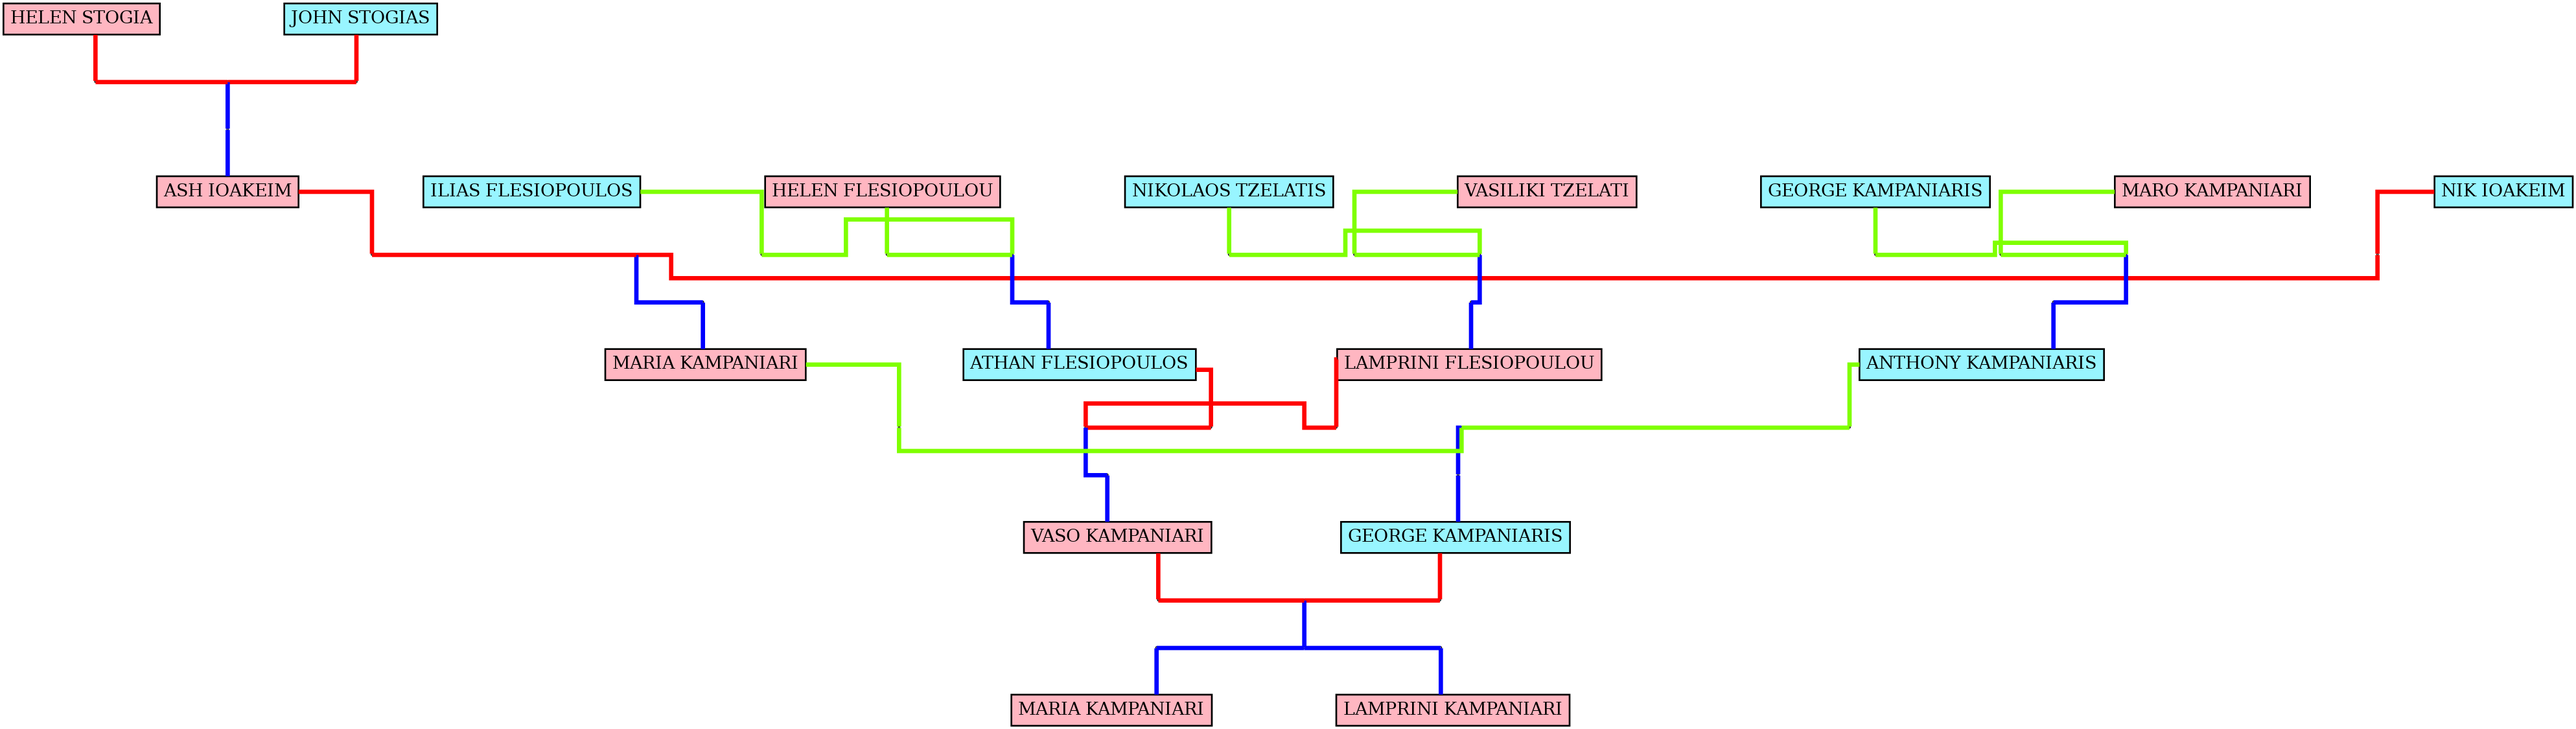
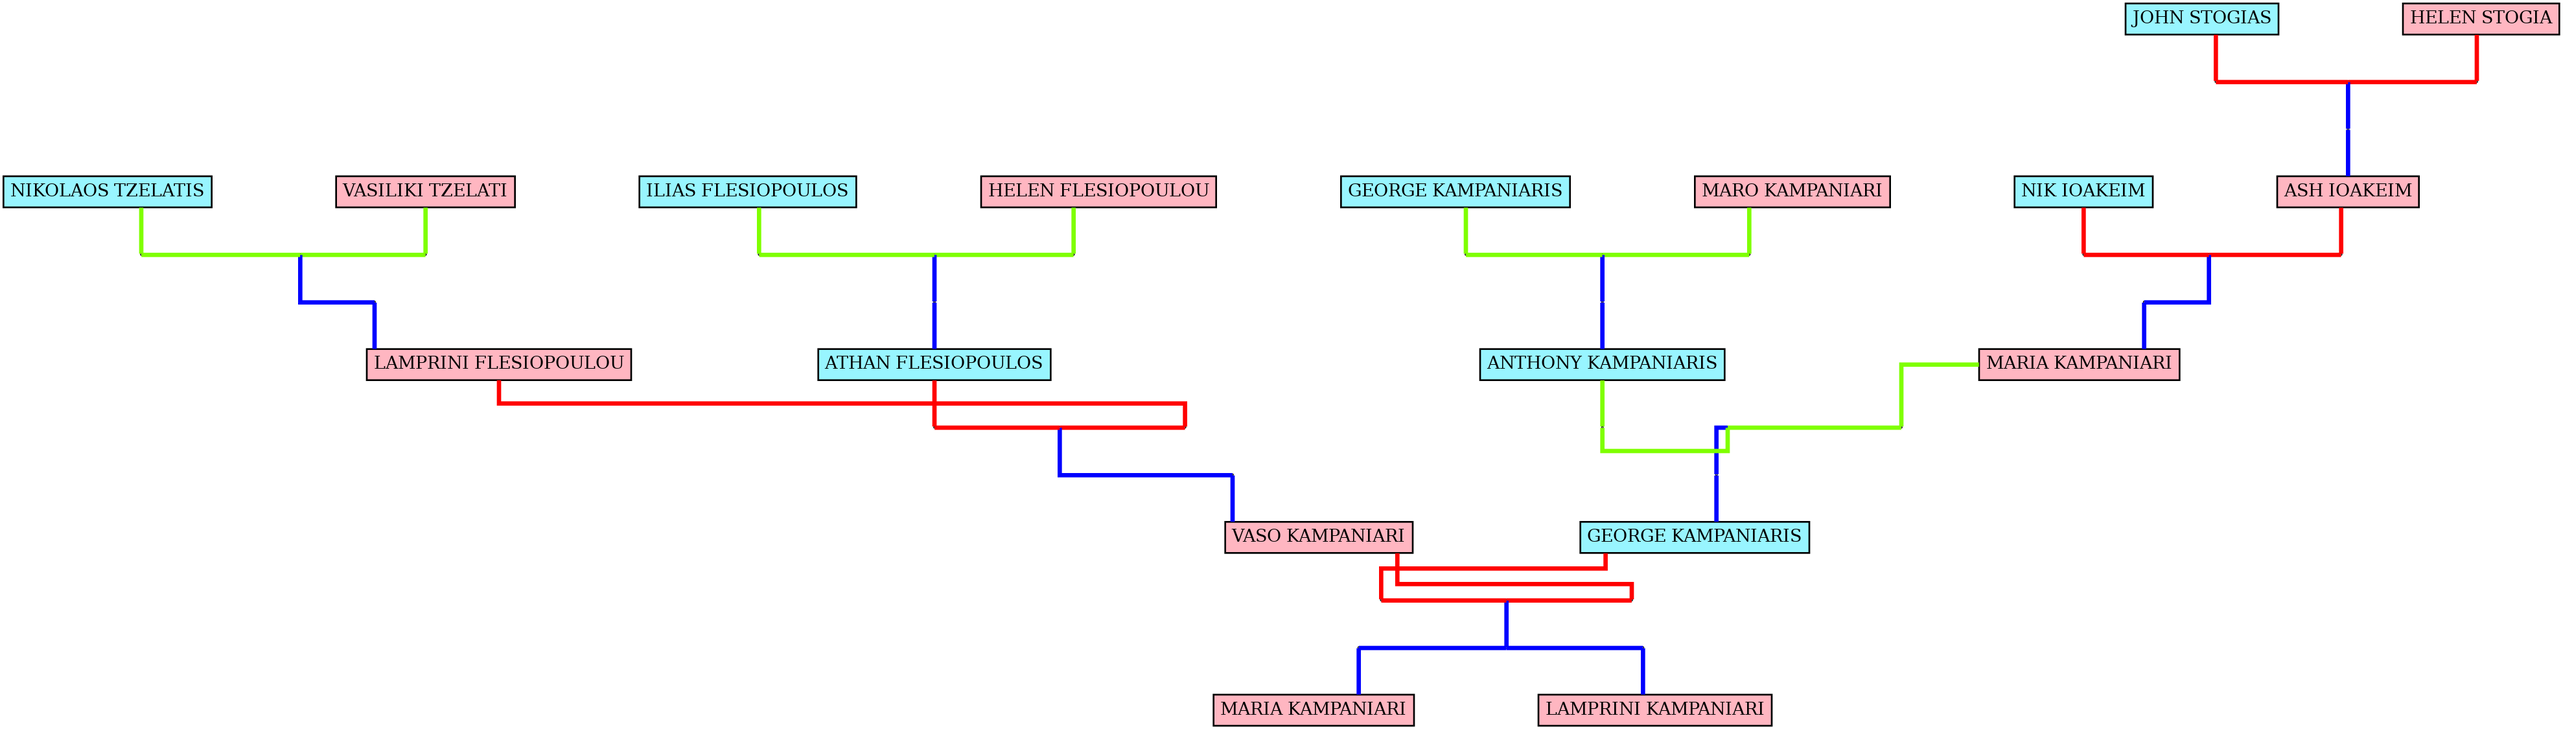
tests with familia_tree json

diff --git a/tree_graph/PygraphvizTree.py b/tree_graph/PygraphvizTree.py
@@ -71,7 +71,7 @@ class Graph:
         print("====END====")"""
                 
         # ταξινόμηση ανα γενιά
-        self.sorted_all = sorted(self.all_people, key=lambda person:person.generation)
+        self.sorted_all = sorted(self.all_people, key=lambda person:person.gender, reverse=True)
 
 
     """Φορτώνει το αρχείο json ή το dict με τις πληροφορίες συγγένειας από το χρήστη, φτιάχνει τα Person objects και επιστρέφει τη λίστα για τη σχεδίαση"""
